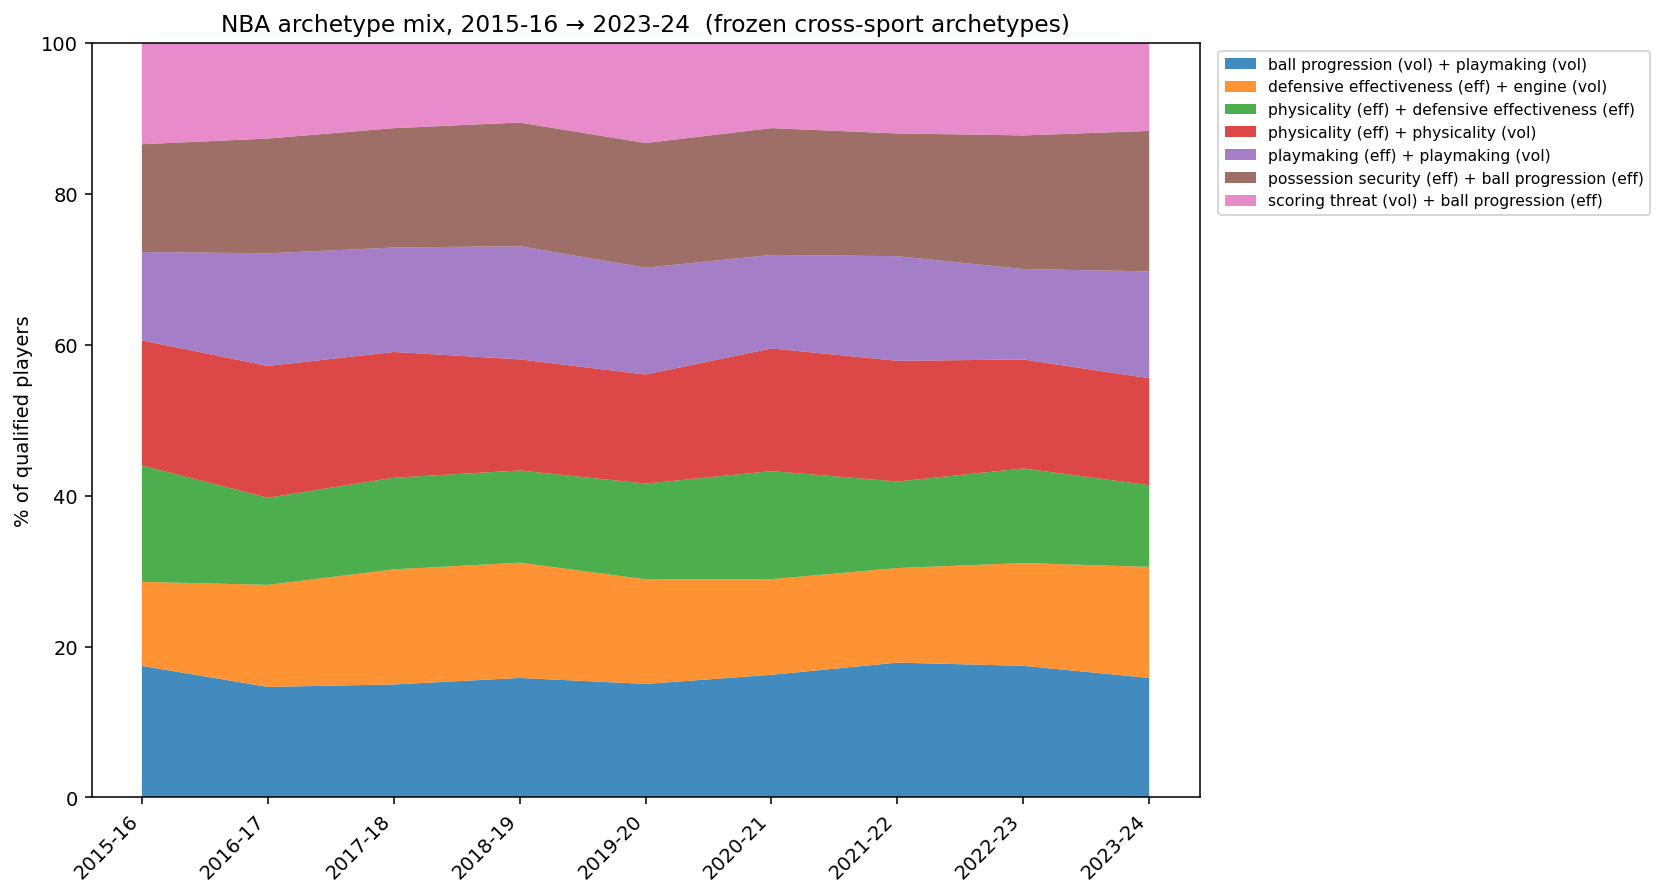
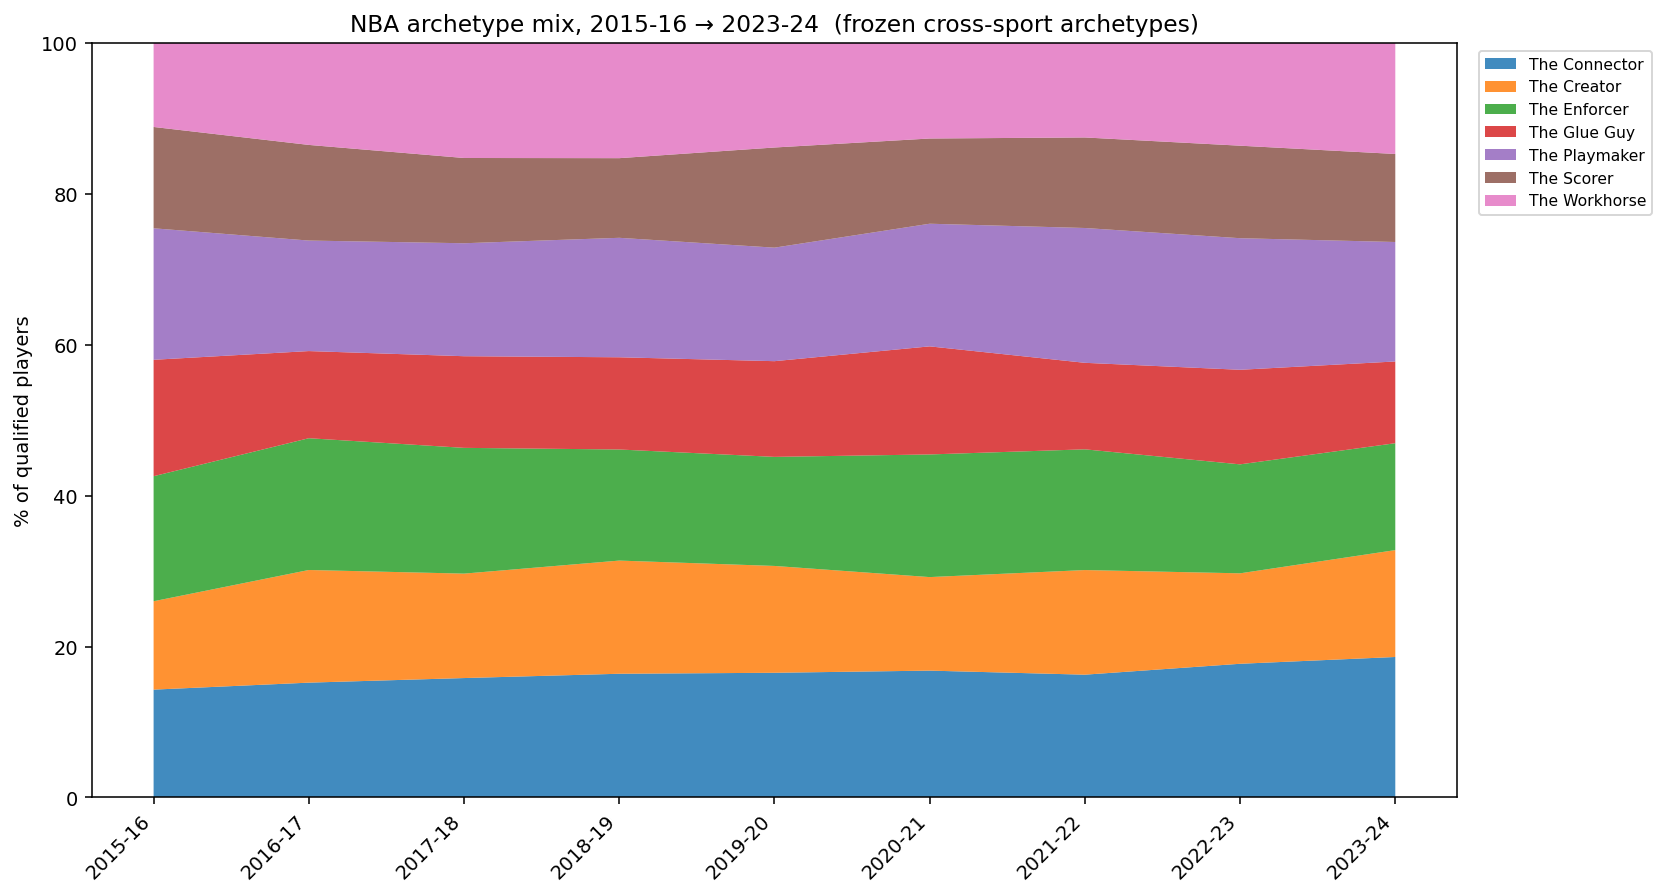
v2.1: archetype names, CLAUDE.md, PROJECT_FILES cleanup
cluster.py: add ARCHETYPE_NAMES dict mapping auto-generated axis labels to
evocative names (The Enforcer, The Scorer, The Playmaker, The Workhorse,
The Creator, The Connector, The Glue Guy) and apply_name() helper. Covers
all known outputs from both single-season and frozen multi-season runs.
Prints evocative name + auto-label in parentheses for transparency.

drift.py: use cluster.apply_name() when building labels in freeze() so
the frozen pkl, assignment CSV, and stacked-area chart all use evocative
names. Regenerated examples/nba_archetype_drift.csv + .png.

CLAUDE.md: new file in repo root, read automatically by Claude Code.
Captures Python environment path, 7 dimensions with stat inputs, all
settled design decisions (within-season norm, strengths weighting,
interior score display-only, DBPM NaN, bbref mislabel, fillna 0.5),
file structure overview, roadmap, and data warnings (irreplaceable
PL_Stats files, 5GB male_players.csv, git check-ignore reminder).

PROJECT_FILES.md: mark archetype names and CLAUDE.md as done in
roadmap; add ARCHETYPE_NAMES/apply_name() to cluster.py entry.

diff --git a/cluster.py b/cluster.py
@@ -28,6 +28,49 @@ import pipeline
 
 FEATURE_SUFFIXES = ("__vol", "__eff")
 
+# ── Evocative archetype names ────────────────────────────────────────────────
+# Maps the auto-generated axis-label (top-2 centroid axes) to a human name.
+# Auto-labels are deterministic given a clustering run, but shift when k or
+# the data changes.  This dict covers every known output; unknown labels fall
+# back to the raw axis label so new runs don't silently break.
+#
+# Rules of thumb for the naming:
+#   Enforcer  — physical dominance, rebounding, interior
+#   Scorer    — high-volume shot-creation, finishing
+#   Playmaker — ball-handling, floor-general, drive/transition
+#   Workhorse — defensive hustle, motor, activity stats
+#   Creator   — playmaking efficiency, chance-creation, assist mentality
+#   Connector — possession security + efficient ball movement
+#   Glue Guy  — physicality + defensive effectiveness (the hybrid 7th type)
+ARCHETYPE_NAMES = {
+    # ── frozen multi-season pool (drift.py, k=7) ─────────────────────────────
+    "playmaking (eff) + playmaking (vol)":               "The Creator",
+    "defensive effectiveness (eff) + engine (vol)":      "The Workhorse",
+    "scoring threat (vol) + ball progression (eff)":     "The Scorer",
+    "physicality (eff) + defensive effectiveness (eff)": "The Glue Guy",
+    "ball progression (vol) + playmaking (vol)":         "The Playmaker",
+    "physicality (eff) + physicality (vol)":             "The Enforcer",
+    "possession security (eff) + ball progression (eff)":"The Connector",
+    # ── single-season k=7 (cluster.py, EPL 2023-24 + NBA 2023-24) ────────────
+    "playmaking (eff) + possession security (eff)":      "The Creator",
+    "defensive effectiveness (eff) + physicality (vol)": "The Enforcer",
+    "scoring threat (vol) + scoring threat (eff)":       "The Scorer",
+    "defensive effectiveness (vol) + engine (vol)":      "The Workhorse",
+    # ── single-season k=6 variants ───────────────────────────────────────────
+    "physicality (eff) + defensive effectiveness (vol)": "The Enforcer",
+    "playmaking (vol) + ball progression (vol)":         "The Playmaker",
+    "possession security (eff) + playmaking (eff)":      "The Connector",
+    "possession security (vol) + engine (vol)":          "The Workhorse",
+    "physicality (vol) + physicality (eff)":             "The Enforcer",
+    "possession security (eff) + ball progression (vol)":"The Workhorse",
+}
+
+
+def apply_name(auto_label):
+    """Return the evocative archetype name for an auto-generated axis label,
+    falling back to the raw label for any combination not yet in the dict."""
+    return ARCHETYPE_NAMES.get(auto_label, auto_label)
+
 
 def _shared_axes(a, b):
     fa = [c for c in a.columns if c.endswith(FEATURE_SUFFIXES)]
@@ -82,7 +125,10 @@ def cluster(soccer_csv="soccer.csv", nba_csv="nba.csv",
 
     k, km = _choose_k(X, ks)
     pool["cluster"] = km.labels_
-    labels = {c: _label(km.cluster_centers_[c], axes) for c in range(k)}
+    # auto_labels = raw axis description; labels = evocative name (falls back
+    # to auto_label if the combination isn't in ARCHETYPE_NAMES yet)
+    auto_labels = {c: _label(km.cluster_centers_[c], axes) for c in range(k)}
+    labels = {c: apply_name(auto_labels[c]) for c in range(k)}
     pool["archetype"] = pool["cluster"].map(labels)
 
     rows = []
@@ -93,7 +139,9 @@ def cluster(soccer_csv="soccer.csv", nba_csv="nba.csv",
         socc = sub[sub.sport == "soccer"]["player"].head(3).tolist()
         nbap = sub[sub.sport == "nba"]["player"].head(3).tolist()
         rows.append({
-            "cluster": c, "archetype": labels[c],
+            "cluster": c,
+            "archetype": labels[c],
+            "auto_label": auto_labels[c],
             "n_soccer": int((sub.sport == "soccer").sum()),
             "n_nba": int((sub.sport == "nba").sum()),
             "soccer_exemplars": ", ".join(socc),
@@ -111,7 +159,7 @@ if __name__ == "__main__":
     print("=== CROSS-SPORT ARCHETYPES ===")
     for _, r in summary.iterrows():
         mix = "MIXED" if min(r.n_soccer, r.n_nba) > 0 else "*** SPORT-SEGREGATED ***"
-        print(f"\n[{r.cluster}] {r.archetype}")
+        print(f"\n[{r.cluster}] {r.archetype}  ({r.auto_label})")
         print(f"    {r.n_soccer} soccer + {r.n_nba} nba   ({mix})")
         print(f"    soccer: {r.soccer_exemplars}")
         print(f"    nba:    {r.nba_exemplars}")

diff --git a/drift.py b/drift.py
@@ -80,7 +80,8 @@ def freeze(ks=(6, 7, 8)):
     X = scaler.transform(pool[axes].fillna(_FILL).values)
 
     k, km = cluster._choose_k(X, ks)
-    labels = {c: cluster._label(km.cluster_centers_[c], axes) for c in range(k)}
+    labels = {c: cluster.apply_name(cluster._label(km.cluster_centers_[c], axes))
+              for c in range(k)}
 
     frozen = {
         "scaler": scaler,

diff --git a/CLAUDE.md b/CLAUDE.md
@@ -1,0 +1,152 @@
+# NBA ↔ EPL Cross-Sport Similarity — Session Context
+
+This file is read automatically by Claude Code at the start of every session.
+It captures the settled decisions, warnings, and context so you don't have to
+re-derive them. For full per-file documentation see `PROJECT_FILES.md`.
+
+---
+
+## What this project is
+
+A cross-sport player similarity model that answers "who is the NBA version of
+this Premier League footballer?" Players from EPL and NBA are scored on seven
+shared dimension axes using within-sport percentile normalization — the bridge
+that makes cross-sport comparison valid. The model finds nearest neighbours
+across sports using strengths-weighted Euclidean distance. The v2 extension adds
+a multi-season NBA archetype drift analysis (`drift.py`) and a complementary
+absolute era trends module (`era_trends.py`).
+
+---
+
+## Python environment
+
+**Always use `/Users/abhi/anaconda3/bin/python`** — this is the only interpreter
+with the required packages (numpy, pandas, sklearn, matplotlib, nba_api).
+The system `/usr/bin/python3` does NOT have these packages.
+
+---
+
+## The 7 dimensions
+
+Each dimension has a `__vol` (volume) and `__eff` (efficiency) axis, kept
+separate deliberately — averaging them re-introduces the failure mode where a
+high-volume inefficient scorer looks like a low-volume efficient sniper ("the
+Curry rule"). `config.py` is the single place to change which raw stats feed
+which axis.
+
+| Dimension | Soccer inputs | NBA inputs |
+|---|---|---|
+| `scoring_threat` | Sh/90, SoT/90, npxG/90 (vol) · G/Sh, SoT%, Dist, npxG/Sh (eff) | FGA, PTS, 3PA (vol) · TS%, eFG%, 3P%, 3PAr, FTr (eff) |
+| `playmaking` | xA, KP, SCA90 (vol) · PPA, CrsPA, GCA90 (eff) | AST, POTENTIAL_AST (vol) · AST%, ast_to_tov (eff) |
+| `ball_progression` | PrgC, PrgP, PrgR (vol) · CPA, Succ% (eff) | DRIVES, TOUCHES (vol) · PTS_PER_TOUCH, DRIVE_FG_PCT (eff) |
+| `possession_security` | Touches (vol) · Cmp%_Total, Mis, Dis (eff) | TOUCHES (vol) · TOV%, ast_to_tov (eff) |
+| `defensive_effectiveness` | Int, Clr, Blocks (vol) · TklChallenge%, Won%, Err (eff) | STL, BLK, DEF_RATING (vol) · DBPM, DRB%, CONTESTED_SHOTS (eff) |
+| `physicality` | Won, height_in, weight_lbs, bmi (vol) · Won% (eff) | TRB, height_in, weight_lbs, bmi (vol) · DRB% (eff) |
+| `engine` | Recov (vol) | CONTESTED_SHOTS, BOX_OUTS (vol) |
+
+---
+
+## Key design decisions — do not re-debate these
+
+### Within-season normalization is load-bearing
+Every stat is percentile-ranked **within its own league-season** before any
+cross-sport comparison. This is what makes the comparison valid: "90th-percentile
+shot volume" means the same thing in EPL and NBA regardless of the raw numbers.
+Side effect: the model is **blind to league-wide volume shifts over time** — a
+uniform tide that lifts all boats equally disappears into the normalization.
+This is a feature, not a bug. The answer to "but what about the 3-point boom?"
+is `era_trends.py`, not changing the normalization.
+
+### Strengths-only weighting (not equal, not symmetric)
+Equal weighting failed: Haaland's low involvement was weighted, pulling him
+toward low-usage floor spacers. Symmetric weighting had the same problem.
+Strengths-only: each axis is weighted by how far **above the league median**
+the query player sits. Only their distinctive strengths inform the match.
+
+### Interior score is display-only
+Shot location signals (`3PAr`/`FTr` for NBA; `Dist`/`npxG/Sh` for soccer) are
+folded **into** `scoring_threat` efficiency — not a standalone axis. A
+standalone interior axis dragged Haaland toward low-volume putback centres
+(same interior score, wrong on everything else). Folded in, the volume axis in
+the same dimension separates them correctly. The `interior_score` column
+(0–100) surfaces this on the radar/breakdown without entering the distance math.
+
+### DBPM is always NaN — expected, not a bug
+Basketball-Reference's Defensive Box Plus/Minus is a proprietary bbref metric,
+not available through nba_api. All nine NBA seasons will show DBPM = NaN
+throughout. Do not try to fix it; it's documented.
+
+### The bbref nba_2223 files were mislabeled
+`NBA_Stats_Per_Game_2023*.csv` contains **2023-24** data despite the name.
+Verified via LeBron spot-check (perfect 1.0000 PTS correlation to nba_api
[phone redacted]; clearly off from true 2022-23 at 28.9 PTS/55G). That bbref source is
+retired. All NBA data now comes from nba_api (`nbaapi_*_<YYYY>.csv`). The
+dataset ID `nba_2223` now correctly maps to genuine 2022-23 nba_api data.
+
+### fillna(0.5) in drift.py, NOT fillna(50)
+The shared dimension axes are within-season percentile fractions in **0..1**.
+`cluster.py` uses `fillna(50)` which is fine when NaNs are rare (50 ≈ median on
+a 0..1 scale is 0.5, but the scaler sees 50 as an extreme outlier). In
+`drift.py` the stakes are higher: NBA `engine__vol` (hustle stats) is missing
+for ~60% of 2015-16 players — right at the start of the drift window. Filling
+with 50 would manufacture a massive outlier blob in the first season and make
+drift look like an artifact of the imputation. Always use `_FILL = 0.5`.
+
+---
+
+## File structure (brief — see PROJECT_FILES.md for full detail)
+
+```
+config.py          dimension schema (the one place to change what gets measured)
+pipeline.py        within-sport normalize → __vol/__eff dimension axes
+ingest_data.py     registry-driven build: raw CSVs → processed/<id>.csv
+datasets.py        dataset registry (all file paths, season strings, thresholds)
+similarity.py      strengths-weighted cross-sport nearest-neighbour lookup
+cluster.py         single-season pooled k-means → cross-sport archetypes
+drift.py           frozen archetypes → structural drift over 9 NBA seasons
+era_trends.py      raw league-average style trends (absolute, not normalized)
+radar.py           overlaid radar chart of two players
+breakdown.py       per-axis percentile breakdown explaining a comp
+
+fetch_nba_base.py       nba_api pull: per-game + advanced stats
+fetch_nba_tracking.py   nba_api pull: drives, touches, hustle, DEF_RATING
+fetch_nba_bio.py        nba_api pull: height + weight
+fetch_all_seasons.py    batch orchestrator across all nine seasons
+fetch_soccer_bio.py     FIFA 23 height/weight extractor
+
+processed/          gitignored: one CSV per dataset (epl_2324, nba_1516 … nba_2324)
+examples/           committed: curated charts and CSVs (rendered on GitHub)
+archetypes_frozen.pkl   gitignored: frozen scaler + centroids (drift.py)
+```
+
+---
+
+## Roadmap (as of v2.1)
+
+- ~~Hand-name archetypes~~ ✓ (done — ARCHETYPE_NAMES dict in cluster.py)
+- ~~CLAUDE.md for session continuity~~ ✓ (this file)
+- Team-context / usage normalization (share-of-team metrics)
+- StatsBomb open-data aggregator for multi-league soccer (2015-16 Big-5 is free)
+- FIFA/EA FC PlayStyles as categorical archetype tags (off-ball signal)
+- Legends mode (reduced-feature variant on historical box-score stats only)
+- Interactive website (input player + year → see cross-sport counterpart)
+
+---
+
+## Data warnings — read before touching files
+
+**`PL_Stats_2023*.csv` are IRREPLACEABLE.** FBref removed all Opta/Stats Perform
+advanced data ~January 2026. These 7 CSV files are a pre-removal snapshot and
+no longer exist at source. The entire soccer side of the model runs on them.
+They are backed up separately. Never delete them; never overwrite them.
+
+**`male_players.csv` is 5 GB.** It is the FIFA 23 source file. Permanently
+gitignored. Never commit it. The pre-extracted `soccer_bio_2023.csv` is the
+lightweight version that enters the pipeline.
+
+**Always run `git check-ignore -v <file>` before staging any data file.**
+The `.gitignore` has broad block rules with explicit `!examples/` negations.
+A new raw-output file that doesn't match any block rule could slip through.
+When in doubt: `git status --short` → look for any `nbaapi_*.csv`,
+`processed/*.csv`, `*.pkl`, or `male_players.csv` in the staged list.
+If any appear, stop and fix `.gitignore` first.

diff --git a/PROJECT_FILES.md b/PROJECT_FILES.md
@@ -51,6 +51,9 @@ validation headline is that most clusters mix both sports, proving within-season
 normalization genuinely makes the sports comparable. The NBA-only ball-progression cluster
 is a real structural gap (not a bug) worth reporting: soccer progressors entangle with
 playmakers, but the NBA has a distinct drive/transition role without a soccer mirror.
+Contains `ARCHETYPE_NAMES` (dict mapping auto-generated axis labels → evocative names:
+The Enforcer, The Scorer, The Playmaker, The Workhorse, The Creator, The Connector, The
+Glue Guy) and `apply_name()` (the lookup helper used by both cluster.py and drift.py).
 
 ---
 
@@ -258,8 +261,8 @@ aggregation layer — a separate sub-project, not yet built).
 
 ## Roadmap (logged, not yet built)
 
-- Hand-name the archetypes (6-line dict, quick win — functional labels → evocative names)
-- CLAUDE.md for session continuity (Claude Code reads it automatically)
+- ~~Hand-name the archetypes~~ ✓ done — `ARCHETYPE_NAMES` dict in cluster.py, used by drift.py
+- ~~CLAUDE.md for session continuity~~ ✓ done — in repo root, read automatically by Claude Code
 - Team-context / usage normalization (share-of-team metrics to separate player from system)
 - StatsBomb open-data aggregator for multi-league soccer expansion (2015-16 Big-5 is free)
 - FIFA/EA FC PlayStyles as categorical archetype-labeling tags (off-ball workaround)